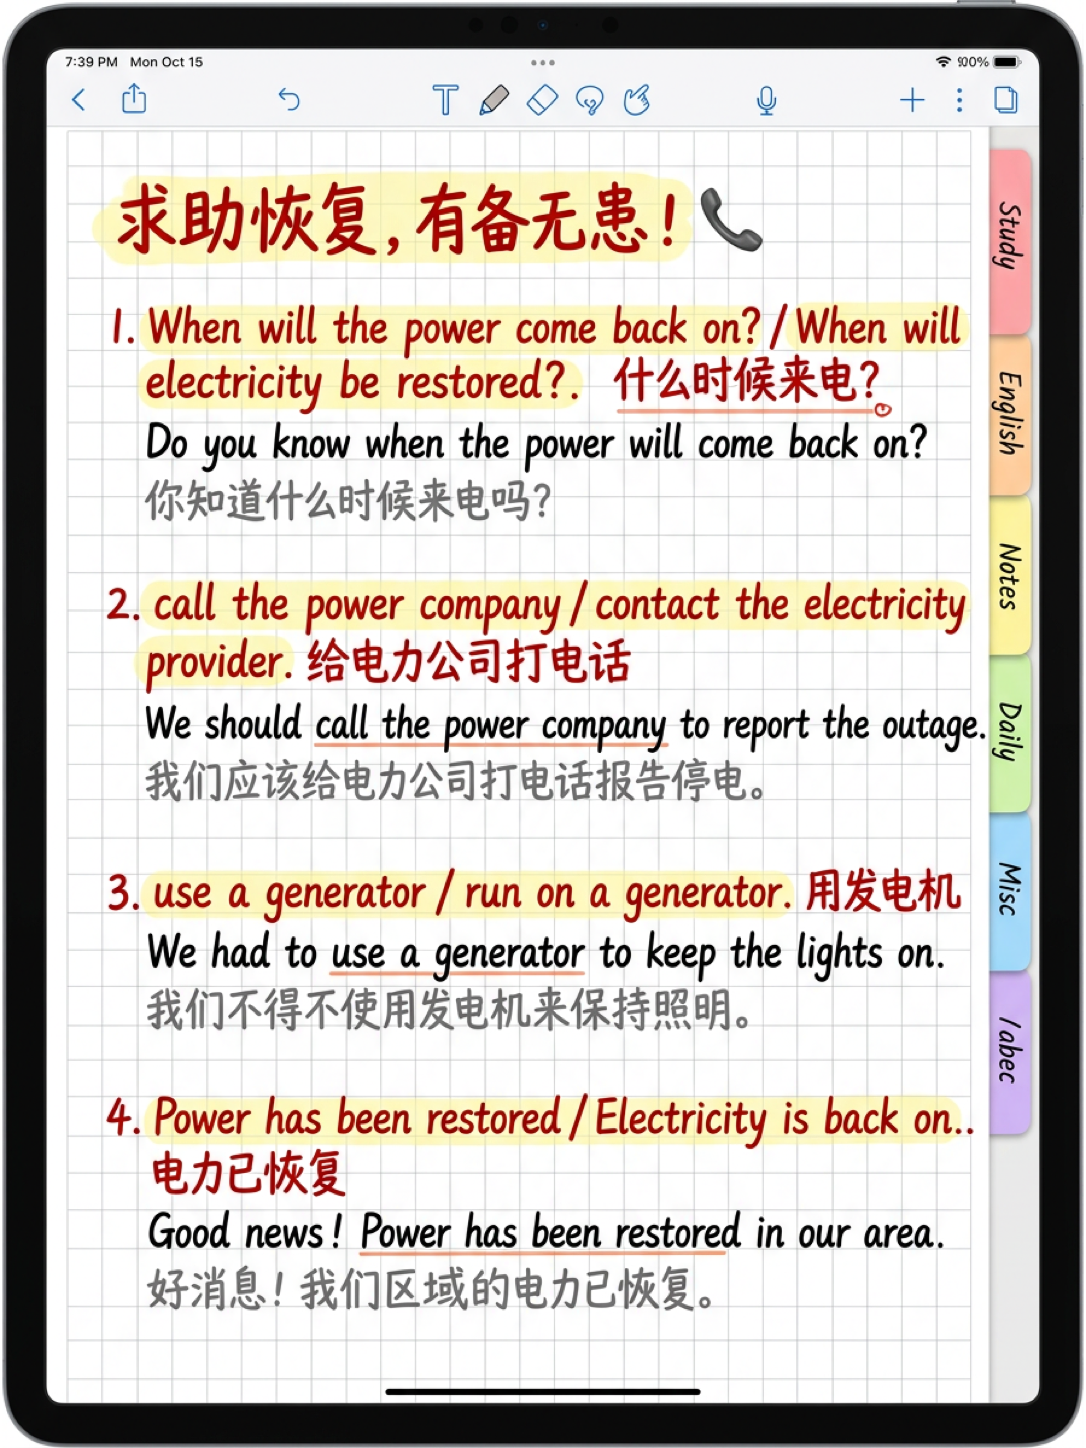
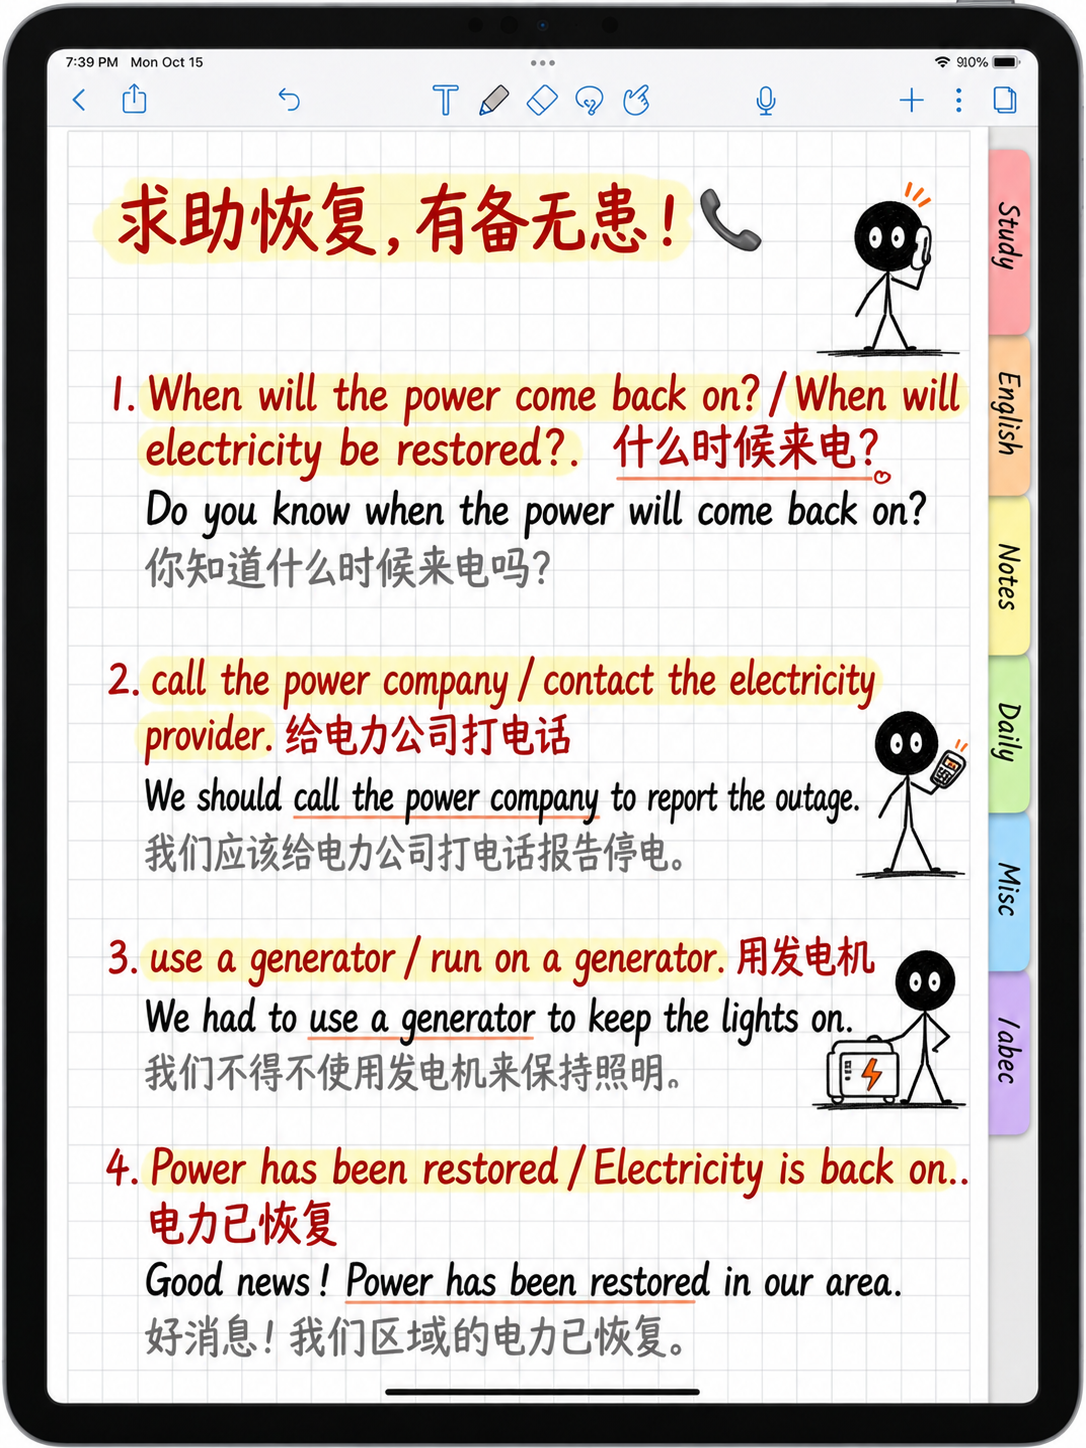
fix: unify early note illustrations with little black style

diff --git a/publish-report.md b/publish-report.md
@@ -1,21 +1,21 @@
 # 小红书笔记网页发布报告
 
-- 生成时间：`2026-08-23T02:58:34.306055Z`
[1 lines of base64/hex data omitted]
+- 生成时间：`2026-08-23T03:23:38.810051Z`
[1 lines of base64/hex data omitted]
 - 站点：小红书英语口语｜22 篇生活高频合集
 - 笔记：22 篇
 - 图片：110 张 PNG 原图 + 110 张 WebP 预览
-- 原图大小：144516434 bytes
-- WebP 大小：10204746 bytes
-- 预览节省：92.94%
+- 原图大小：143041506 bytes
+- WebP 大小：10354744 bytes
+- 预览节省：92.76%
 - 访问遮罩：已启用（非真实认证）
 
 ## 变更
 
 - 新增：无
-- 修改：11-可以少放点油吗, 12-可以少放点盐吗, 13-可以换一道不辣的吗, 14-可以推荐一道不辣的吗, 15-今天几点开门, 16-今天正常营业吗, 17-现在还能点餐吗, 18-家里停水了, 19-家里断网了, 20-这个插座没电, 21-暖气停了, 22-家里煤气停了
+- 修改：05-我想查物流, 06-我家停电了, 10-预约剪头发, 11-可以少放点油吗, 12-可以少放点盐吗, 13-可以换一道不辣的吗, 14-可以推荐一道不辣的吗, 15-今天几点开门, 16-今天正常营业吗, 17-现在还能点餐吗, 18-家里停水了, 19-家里断网了, 20-这个插座没电, 21-暖气停了, 22-家里煤气停了
 - 移除：无
-- 未变：01-外卖少了一样, 02-可以少放辣吗, 03-今天几点关门, 04-你周末有空吗, 05-我想查物流, 06-我家停电了, 07-文件打不开, 08-有大一号吗, 09-需要预约维修, 10-预约剪头发
+- 未变：01-外卖少了一样, 02-可以少放辣吗, 03-今天几点关门, 04-你周末有空吗, 07-文件打不开, 08-有大一号吗, 09-需要预约维修
 
 ## 笔记与图片
 
@@ -25,12 +25,12 @@
 | 2 | `02-可以少放辣吗` | 可以少放辣吗？英文怎么说 | 小帮英语 | 5 | 8113467 | 584782 |
 | 3 | `03-今天几点关门` | “今天几点关门？”英文怎么说？ | — | 5 | 6884790 | 672400 |
 | 4 | `04-你周末有空吗` | 你周末有空吗？英文怎么说 | 小帮英语 | 5 | 7999397 | 566700 |
-| 5 | `05-我想查物流` | “我想查物流。”英文怎么说？ | — | 5 | 8466912 | 580250 |
-| 6 | `06-我家停电了` | “停电了”英文怎么说？ | — | 5 | 8045146 | 566750 |
+| 5 | `05-我想查物流` | “我想查物流。”英文怎么说？ | — | 5 | 7491033 | 663806 |
+| 6 | `06-我家停电了` | “停电了”英文怎么说？ | — | 5 | 7285893 | 640084 |
 | 7 | `07-文件打不开` | 文件打不开？英文这样说 | 卖煎饼的司机 | 5 | 7411859 | 488420 |
 | 8 | `08-有大一号吗` | 小了想换大一号，英文其实很简单 | 小帮英语 | 5 | 7151407 | 455410 |
 | 9 | `09-需要预约维修` | 家里东西坏了，怎么和房东约维修时间？ | 卖煎饼的司机 | 5 | 7235824 | 493052 |
-| 10 | `10-预约剪头发` | 剪头发预约、改时间，一组表达搞定 | 小帮英语 | 5 | 6908712 | 485366 |
+| 10 | `10-预约剪头发` | 剪头发预约、改时间，一组表达搞定 | 小帮英语 | 5 | 7168916 | 478474 |
 | 11 | `11-可以少放点油吗` | 想吃清淡点，少放油怎么说？ | 小帮英语 | 5 | 5533221 | 366216 |
 | 12 | `12-可以少放点盐吗` | 怕菜太咸，少放盐怎么说？ | 小帮英语 | 5 | 6253776 | 422762 |
 | 13 | `13-可以换一道不辣的吗` | 菜太辣吃不了，怎么换一道？ | 小帮英语 | 5 | 5715490 | 396746 |
